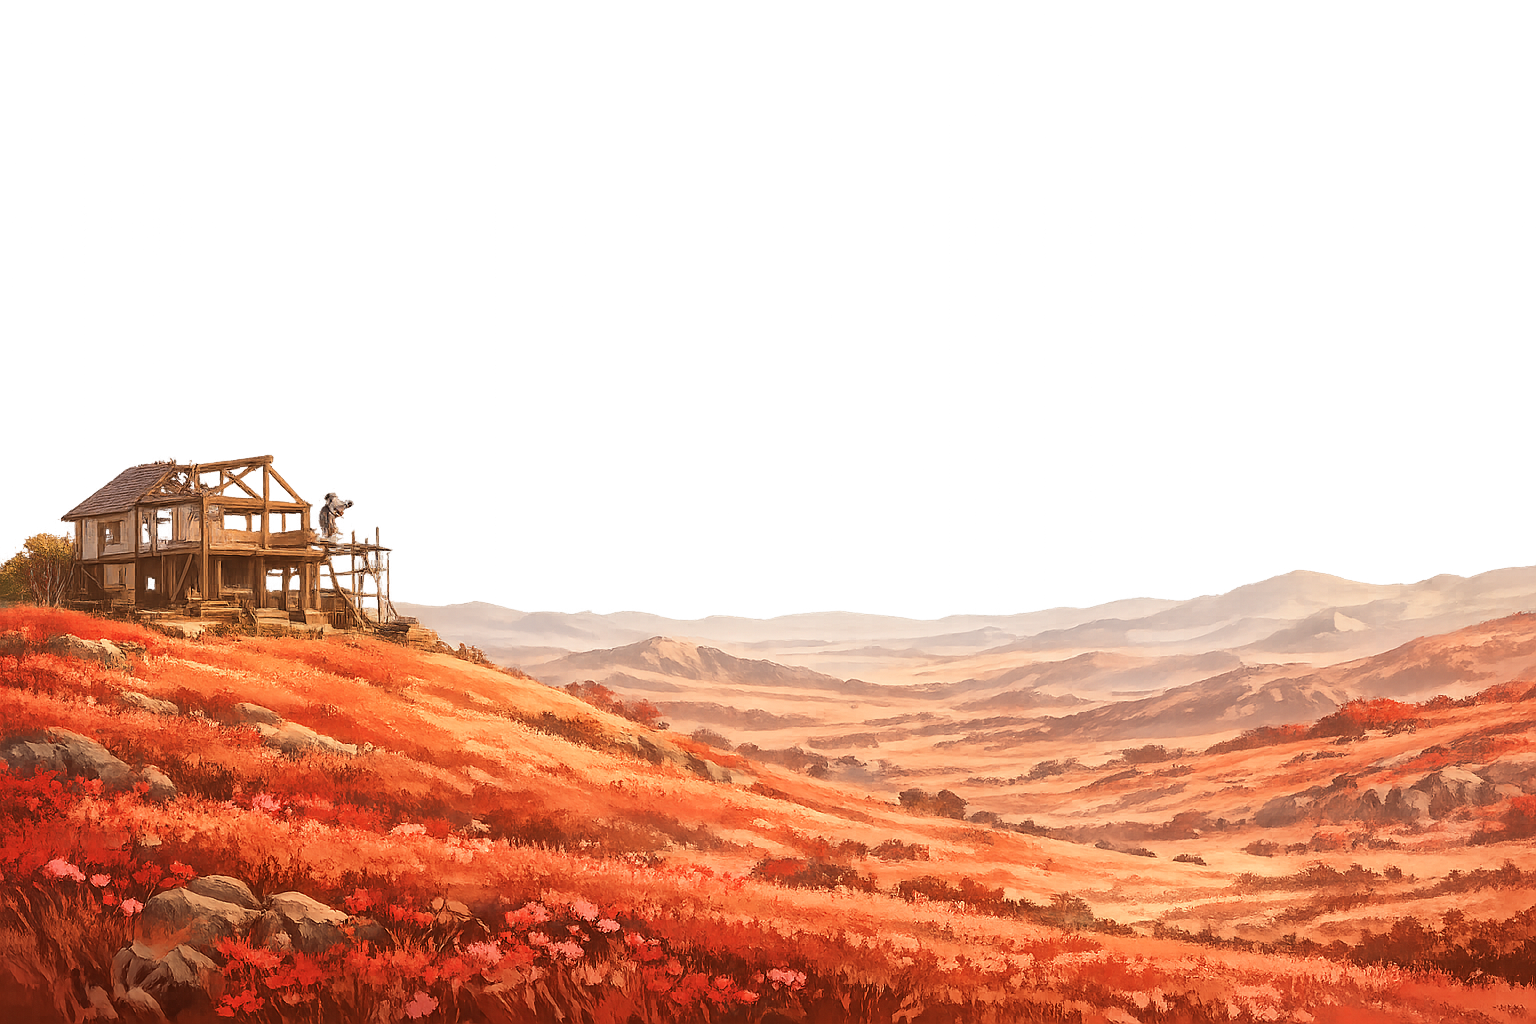
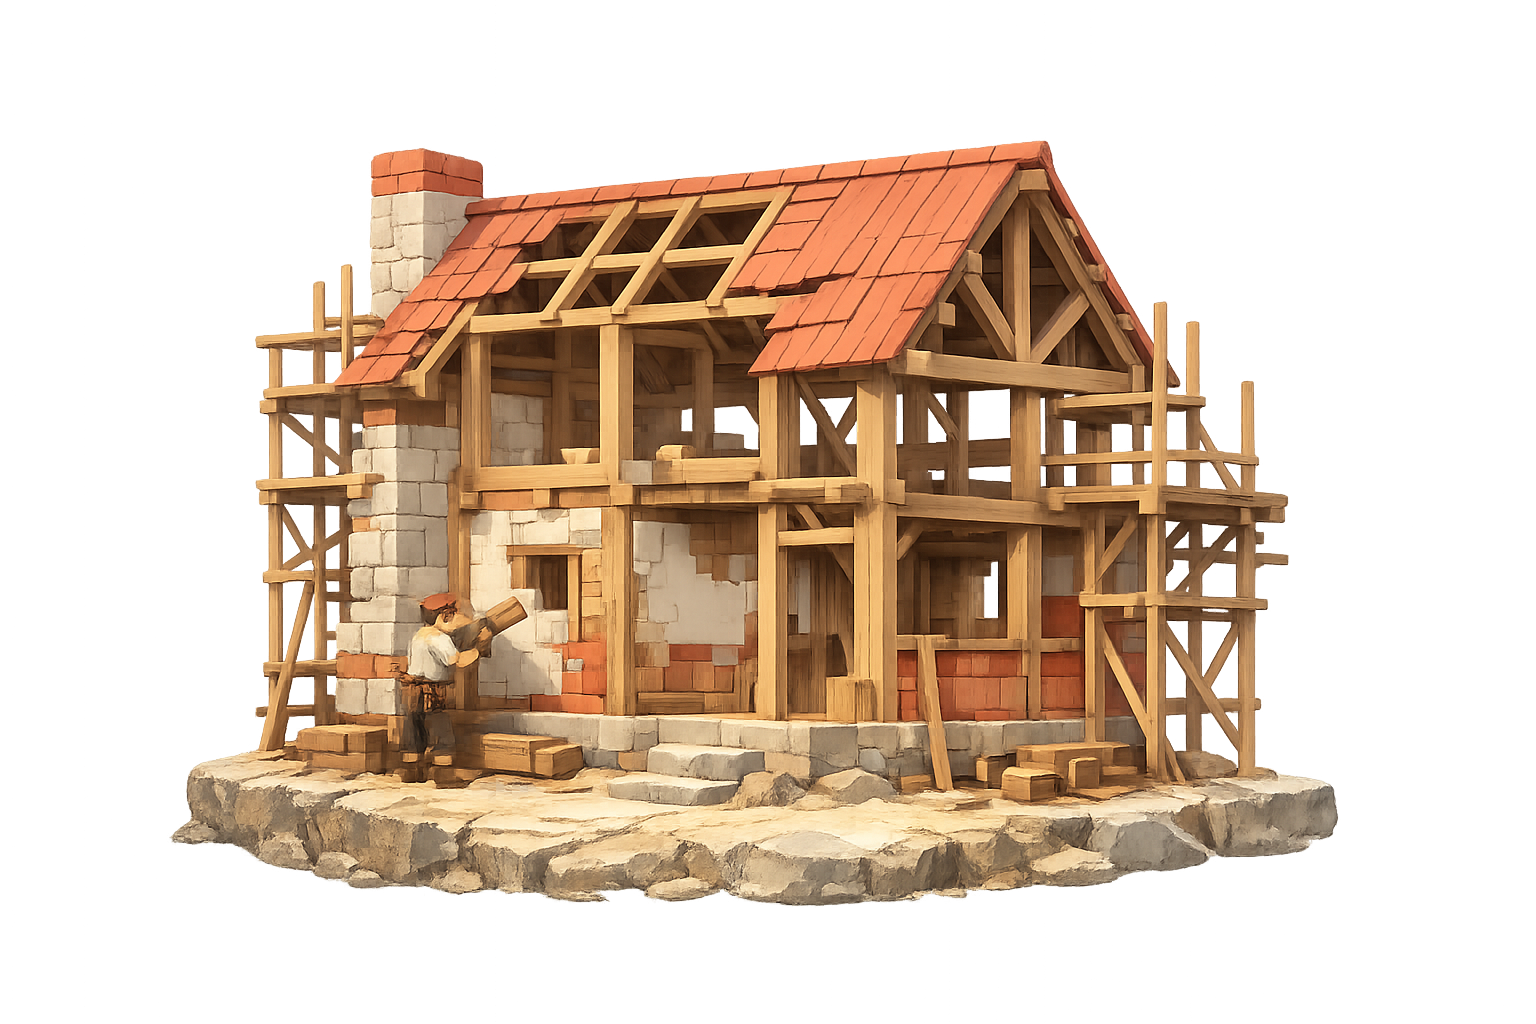
Add illustrations to fragments 01–04
- 01 Meesho: waiting feels expensive.png
- 02 WhatsApp: Replying later becomes never.png
- 03 WhatsApp: The internet forgets the source.png
- 04 YouTube: Saved doesn't mean watched.png

diff --git a/index.html b/index.html
@@ -1303,14 +1303,14 @@ renderProject(0);
 
 /* ═══════════════ FRAGMENTS ═══════════════ */
 const fragmentData = [
-  { platform:'Meesho', label:'Live Deal Window', heading:'Waiting feels expensive', sub:'Live pricing windows increase urgency by showing discounts that expire in real time.', likes:0 },
-  { platform:'WhatsApp', label:'Reply Nudge', heading:'Replying later becomes never', sub:'Gentle nudges resurface unanswered chats before they silently fade out.', likes:0 },
-  { platform:'WhatsApp', label:'Image Provenance', heading:'The internet forgets the source', sub:'Image provenance helps users trace where forwarded media originally came from.', likes:0 },
-  { platform:'YouTube', label:'Watch Later Revisit', heading:'Saved doesn\'t mean watched', sub:'Watch Later resurfacing prompts users to revisit content they intended to return to.', likes:0 },
-  { platform:'Swiggy', label:'Social Proof', heading:'The crowd removes the risk', sub:'Ordering signals from other users reduce hesitation during food selection.', likes:0 },
-  { platform:'GPay', label:'Payment Wrap', heading:'The summary hits harder than the payment', sub:'Monthly spending recaps expose patterns that individual transactions often hide.', likes:0 },
-  { platform:'GPay', label:'Payment Reminder', heading:'Following up feels personal', sub:'Smart reminders help users recover pending payments without awkward conversations.', likes:0 },
-  { platform:'Swiggy', label:'Group Ordering', heading:'Shared choice reduces blame', sub:'Collaborative ordering distributes decision-making across the entire group.', likes:0 },
+  { platform:'Meesho', label:'Live Deal Window', heading:'Waiting feels expensive', sub:'Live pricing windows increase urgency by showing discounts that expire in real time.', img:'images/waiting feels expensive.png' },
+  { platform:'WhatsApp', label:'Reply Nudge', heading:'Replying later becomes never', sub:'Gentle nudges resurface unanswered chats before they silently fade out.', img:'images/Replying later becomes never.png' },
+  { platform:'WhatsApp', label:'Image Provenance', heading:'The internet forgets the source', sub:'Image provenance helps users trace where forwarded media originally came from.', img:'images/The internet forgets the source.png' },
+  { platform:'YouTube', label:'Watch Later Revisit', heading:'Saved doesn\'t mean watched', sub:'Watch Later resurfacing prompts users to revisit content they intended to return to.', img:'images/Saved doesn\'t mean watched.png' },
+  { platform:'Swiggy', label:'Social Proof', heading:'The crowd removes the risk', sub:'Ordering signals from other users reduce hesitation during food selection.', img:'' },
+  { platform:'GPay', label:'Payment Wrap', heading:'The summary hits harder than the payment', sub:'Monthly spending recaps expose patterns that individual transactions often hide.', img:'' },
+  { platform:'GPay', label:'Payment Reminder', heading:'Following up feels personal', sub:'Smart reminders help users recover pending payments without awkward conversations.', img:'' },
+  { platform:'Swiggy', label:'Group Ordering', heading:'Shared choice reduces blame', sub:'Collaborative ordering distributes decision-making across the entire group.', img:'' },
 ];
 
 const likeCounts = [...fragmentData.map(f => f.likes)];
@@ -1322,7 +1322,7 @@ function renderFragments() {
   grid.innerHTML = fragmentData.map((f, i) => `
     <div class="frag-card">
       <div class="frag-img">
-        <span class="frag-img-placeholder">${String(i+1).padStart(2,'0')}</span>
+        ${f.img ? `<img src="${f.img}" alt="${f.heading}" loading="lazy"/>` : `<span class="frag-img-placeholder">${String(i+1).padStart(2,'0')}</span>`}
       </div>
       <div class="frag-body">
         <div class="frag-platform">${f.platform} — ${f.label}</div>